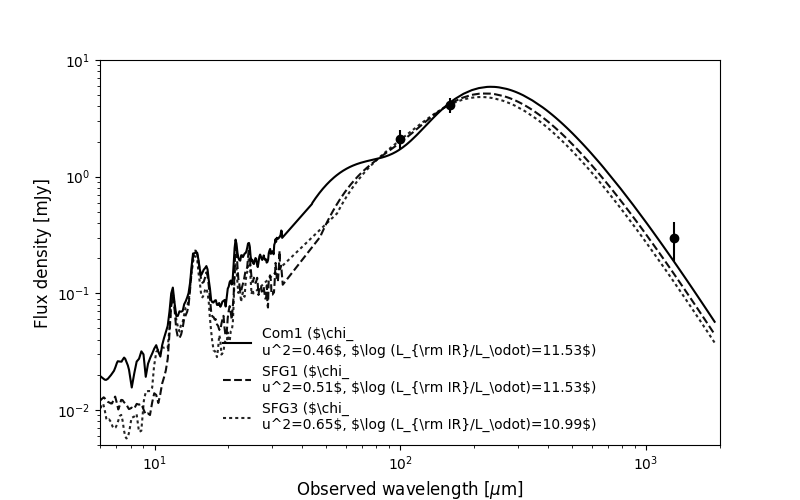
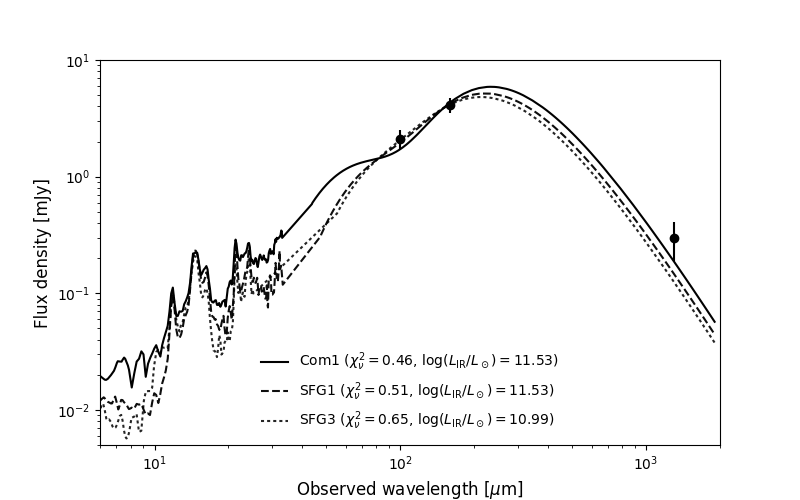
correct raw string

Changed region(s): [[0.2812, 0.66, 0.75, 0.87]]

diff --git a/src/fit_sed.py b/src/fit_sed.py
@@ -349,7 +349,7 @@ def find_best_template(input_measurements, z, library=K15_SED_templates,
             log_L_IR_text = r'$\log (L_{{\rm IR}}/L_\odot)={:.2f}$'.format(np.log10(L_IR))
 
             ax.plot(waves, f_nu * norm, alpha=(0.5 + lowest_chi2 / (2 * chi2)), ls=ls, c='k',
-                label='{} ($\chi_\nu^2={:.2f}$, {:s})'.format(template[:3]+template[-1], 
+                label=r'{} ($\chi_\nu^2={:.2f}$, {:s})'.format(template[:3]+template[-1], 
                                                               chi2, log_L_IR_text))
 
         # plot measurements (including upper limits)
